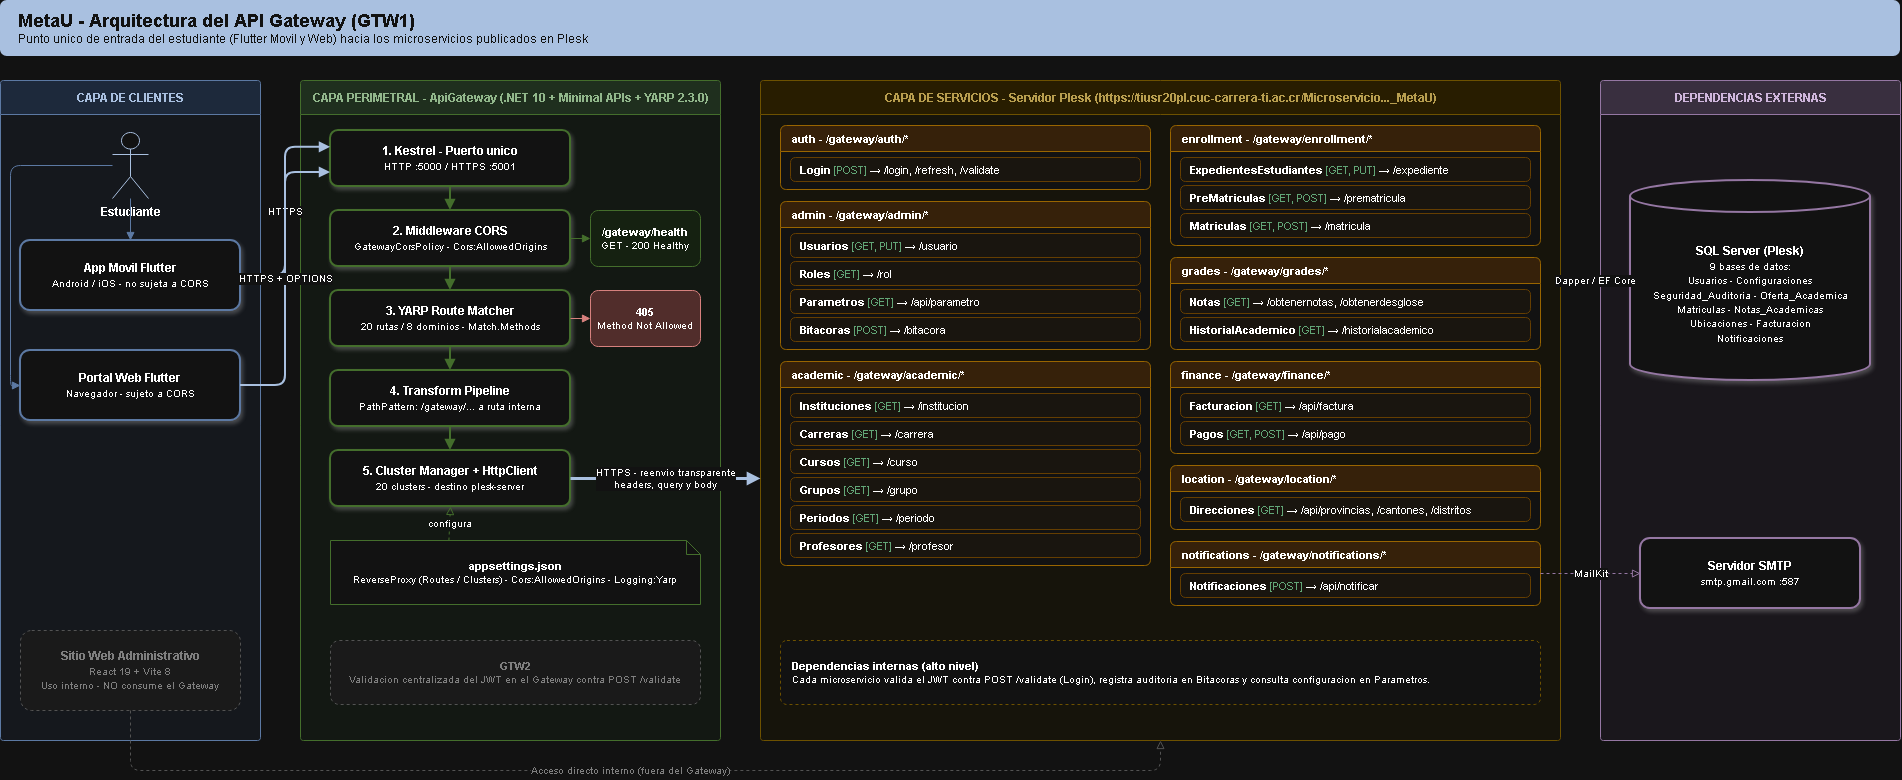
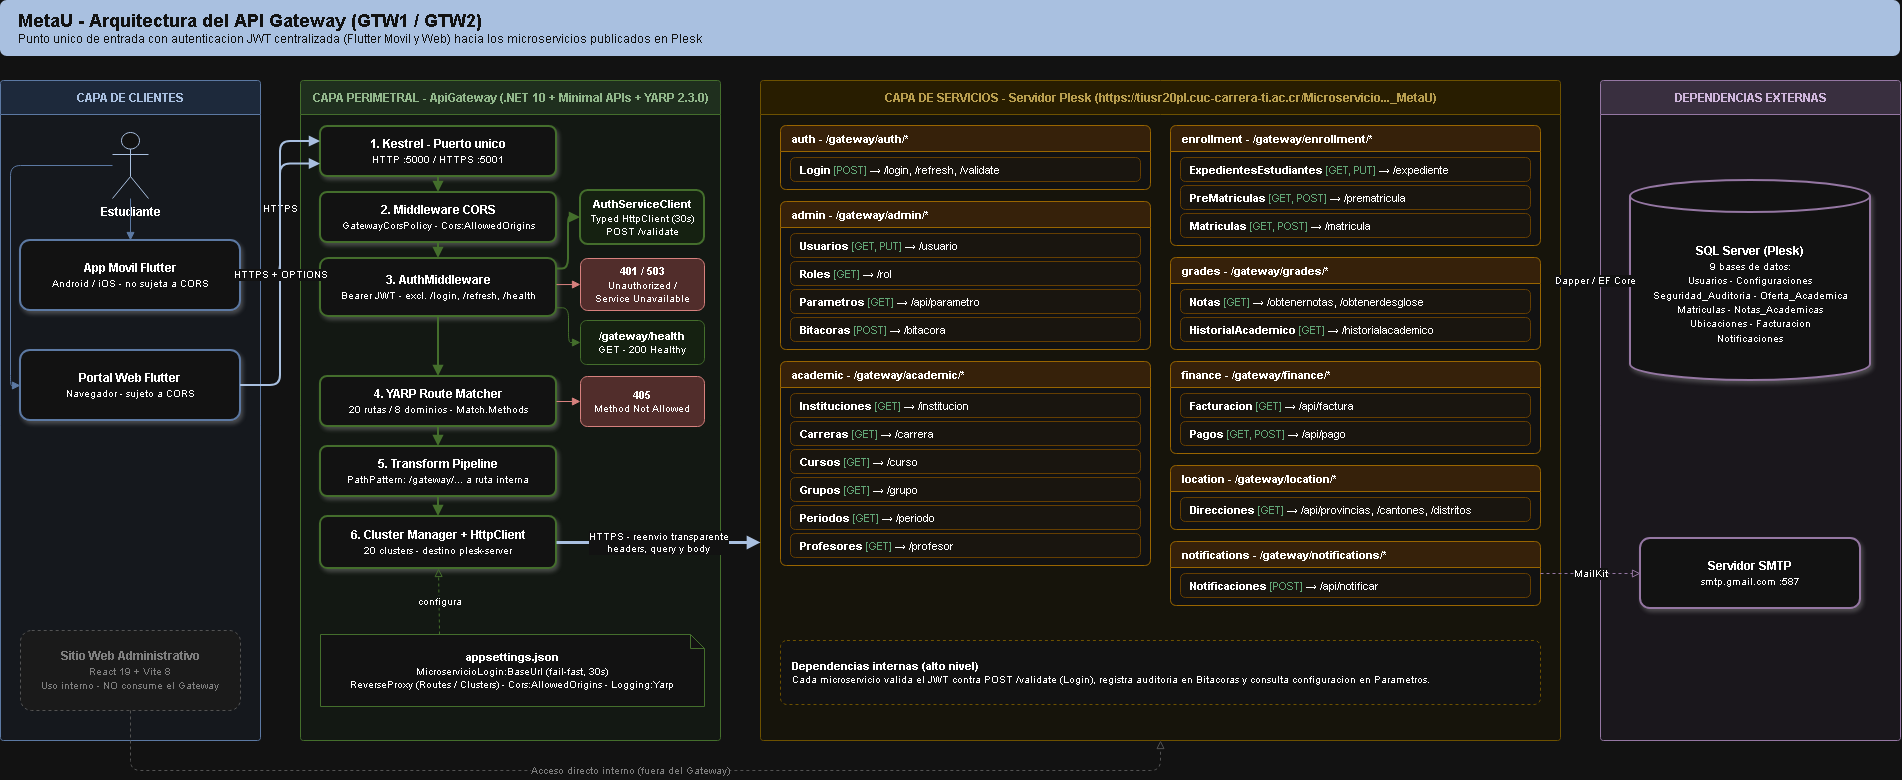
docs: actualizar READMEs y diagrama de arquitectura para GTW2
- Actualizado Backend/ApiGateway/README.md con flujo GTW2, orden del pipeline, rutas publicas/protegidas, configuracion y codigos 401/503
- Actualizado Backend/README.md con la responsabilidad de autenticacion JWT en ApiGateway
- Actualizados Diagrama_Arquitectura_APIGateway.drawio y .png incorporando AuthMiddleware, AuthServiceClient y validacion contra POST /validate

diff --git a/Backend/ApiGateway/README.md b/Backend/ApiGateway/README.md
@@ -1,4 +1,4 @@
-# API Gateway - GTW1
+# API Gateway - GTW1 / GTW2
 
 Punto único de entrada (*Reverse Proxy*) perimetral del sistema MetaU, construido sobre **.NET 10**, **ASP.NET Core (Minimal APIs)** y **YARP (Yet Another Reverse Proxy)**.
 
@@ -10,6 +10,10 @@ Punto único de entrada (*Reverse Proxy*) perimetral del sistema MetaU, construi
 
 El Gateway centraliza todas las comunicaciones entrantes destinadas al estudiante desde la Aplicación Móvil y el Portal Web desarrollados en Flutter. Proporciona un puerto y punto de entrada perimetral unificado, resolviendo el enrutamiento y la reescritura hacia los 20 microservicios en Plesk requeridos por el flujo del estudiante, filtrando verbos HTTP no autorizados y gestionando las políticas perimetrales de CORS.
 
+**GTW2** — Autenticación y autorización centralizada en el Gateway.
+
+El Gateway intercepta las peticiones entrantes antes de llegar al proxy inverso, valida el token JWT (`access_token`) contra la operación `POST /validate` de `MicroservicioLogin` mediante un cliente HTTP tipado y rechaza con `401 Unauthorized` cualquier petición protegida sin token válido. Quedan excluidas únicamente las rutas `/gateway/auth/login`, `/gateway/auth/refresh`, `/gateway/health` y las solicitudes preflight `OPTIONS`.
+
 > **Alcance arquitectónico:** El Sitio Web Administrativo (React 19) no consume este Gateway, ya que opera de forma interna y directa contra los microservicios administrativos.
 
 ---
@@ -20,6 +24,8 @@ El Gateway centraliza todas las comunicaciones entrantes destinadas al estudiant
 - ASP.NET Core Minimal APIs
 - YARP (Yet Another Reverse Proxy) v2.3.0 de Microsoft
 - Middleware de CORS (Cross-Origin Resource Sharing) configurable por entorno
+- Middleware personalizado de autenticación JWT (`AuthMiddleware`)
+- Cliente HTTP tipado con `IHttpClientFactory` (`AuthServiceClient`)
 - Transformaciones de ruta (*Path Pattern Transforms*) nativas
 - Kestrel Web Server (HTTP/1.1 y HTTP/2)
 
@@ -96,12 +102,40 @@ El Gateway segmenta los 20 microservicios consumidos por la aplicación en 8 dom
 
 ## Políticas de CORS (Cross-Origin Resource Sharing)
 
-El Gateway implementa la política perimetral `GatewayCorsPolicy` posicionada de forma estricta antes del proxy inverso en el pipeline de ASP.NET Core:
+El Gateway implementa la política perimetral `GatewayCorsPolicy` posicionada de forma estricta antes del middleware de autenticación y del proxy inverso en el pipeline de ASP.NET Core:
 
 1. **Orígenes dinámicos:** Los orígenes permitidos se desacoplan del código compilado y se configuran en `appsettings.json` mediante la clave `Cors:AllowedOrigins` (por ejemplo, `https://tiusr20pl.cuc-carrera-ti.ac.cr`).
 2. **Cabeceras permitidas:** `AllowAnyHeader()` para permitir cabeceras estándar y personalizadas (`Authorization`, `Content-Type`, `X-Usuario-Id`, `UsuarioGUID`, etc.).
 3. **Métodos permitidos:** `AllowAnyMethod()` para resolver con éxito el preflight (`OPTIONS` -> `204 No Content`), delegando la restricción granular de verbos de negocio al Route Matcher de YARP.
 4. **Comportamiento móvil vs web:** Las aplicaciones nativas (Flutter en Android/iOS) operan a nivel de socket del sistema operativo y no están restringidas por CORS. La política protege a los clientes ejecutados en navegador (específicamente la versión Flutter Web del estudiante).
+
+---
+
+## Autenticación y autorización centralizada (GTW2)
+
+La seguridad perimetral se implementa mediante un middleware personalizado y un cliente HTTP tipado, manteniendo intactas las 20 definiciones de rutas de YARP:
+
+- `Middleware/AuthMiddleware.cs`: Intercepta cada petición HTTP después de CORS y antes de los endpoints propios y de YARP.
+- `Clients/IAuthServiceClient.cs` y `Clients/AuthServiceClient.cs`: Envía `POST validate` hacia `MicroservicioLogin` con la cabecera `Authorization: Bearer <token>` y retorna un booleano indicando la validez del token.
+
+### Orden del pipeline en `Program.cs`
+
+1. `app.UseCors(CorsPolicyName)` — Garantiza que incluso las respuestas `401` y `503` del Gateway incluyan cabeceras CORS para clientes web.
+2. `app.UseMiddleware<AuthMiddleware>()` — Ejecuta la verificación de token antes de exponer rutas locales o reenviar tráfico.
+3. `app.MapApiGatewayEndpoints()` — Atiende `/gateway/health`.
+4. `app.MapReverseProxy()` — Enruta la petición validada al microservicio correspondiente en Plesk.
+
+### Rutas excluidas vs rutas protegidas
+
+| Tipo de acceso | Rutas / Solicitudes | Comportamiento |
+|---|---|---|
+| Público (excluido) | Solicitudes `OPTIONS`, `/gateway/auth/login`, `/gateway/auth/refresh`, `/gateway/health` | Avanzan directamente sin requerir token JWT |
+| Protegido | `/gateway/auth/validate` y las 19 rutas de negocio restantes | Exigen cabecera `Authorization: Bearer <token>` (comparación case-insensitive) validada contra `/validate` |
+
+### Manejo de errores de seguridad
+
+- **Token ausente, malformado, inválido o expirado (`401 Unauthorized`):** El Gateway responde inmediatamente con cabecera `WWW-Authenticate: Bearer` y cuerpo JSON `{"mensaje": "No autorizado."}` sin invocar al microservicio destino.
+- **Fallo de red, timeout o error 5xx en `MicroservicioLogin` (`503 Service Unavailable`):** Se registra el error en el log y se responde `{"mensaje": "Servicio de autenticacion no disponible temporalmente."}`.
 
 ---
 
@@ -119,6 +153,9 @@ Claves principales en `appsettings.json` / `appsettings.Development.json`:
     }
   },
   "AllowedHosts": "*",
+  "MicroservicioLogin": {
+    "BaseUrl": "https://tiusr20pl.cuc-carrera-ti.ac.cr/MicroservicioLogin_MetaU/"
+  },
   "Cors": {
     "AllowedOrigins": [
       "https://tiusr20pl.cuc-carrera-ti.ac.cr"
@@ -131,6 +168,7 @@ Claves principales en `appsettings.json` / `appsettings.Development.json`:
 }
 ```
 
+- `MicroservicioLogin:BaseUrl` → URL base del servicio de autenticación usada por `AuthServiceClient`. Se valida al arranque (*fail-fast* con `InvalidOperationException` si falta o no es una URI absoluta válida), se normaliza con `/` final y se configura con un `Timeout` de 30 segundos.
 - `Cors:AllowedOrigins` → Lista de dominios web autorizados para interactuar con la API.
 - `ReverseProxy:Routes` → Definición de rutas públicas, verbos admitidos y reglas de transformación.
 - `ReverseProxy:Clusters` → Destinos físicos correspondientes a cada microservicio publicado en Plesk.
@@ -157,10 +195,11 @@ Para ejecutarlo dentro de la solución completa, está incorporado en `Microserv
 | 200 OK | Solicitud procesada y respondida exitosamente por el microservicio o por `/gateway/health` |
 | 201 Created | Creación de recursos exitosa (ej. login, prematricula, pago) |
 | 204 No Content | Petición preflight `OPTIONS` resuelta por CORS o eliminaciones exitosas |
-| 401 Unauthorized | Token JWT ausente, expirado o inválido transmitido al microservicio |
+| 401 Unauthorized | Token JWT ausente, malformado, inválido o expirado; rechazado de forma centralizada por `AuthMiddleware` (incluye cabecera `WWW-Authenticate: Bearer`) |
 | 404 Not Found | Ruta inexistente no capturada por ninguna regla de enrutamiento |
 | 405 Method Not Allowed | Verbo HTTP no autorizado por la definición de la ruta en YARP (bloqueo en el perímetro) |
 | 502 Bad Gateway | El microservicio interno de destino en Plesk está apagado, inaccesible o la URL configurada en el Cluster es errónea |
+| 503 Service Unavailable | Error de red, timeout o fallo `5xx` al intentar validar el token contra `MicroservicioLogin` |
 
 ---
 
@@ -172,4 +211,4 @@ El diagrama de casos de uso del API Gateway se encuentra disponible en:
 
 ---
 
-*Documentación estandarizada del componente ApiGateway (GTW1).*
+*Documentación estandarizada del componente ApiGateway (GTW1 y GTW2).*

diff --git a/Backend/README.md b/Backend/README.md
@@ -26,7 +26,7 @@ dotnet build Microservicios.slnx
 
 | Carpeta | Endpoint base | Descripción |
 |---------|---------------|-------------|
-| [ApiGateway/](ApiGateway/) | `/gateway` | Punto único de entrada (Reverse Proxy YARP), enrutamiento perimetral y CORS |
+| [ApiGateway/](ApiGateway/) | `/gateway` | Punto único de entrada (Reverse Proxy YARP), enrutamiento perimetral, CORS y autenticación centralizada (JWT) |
 | [MicroservicioLogin/](MicroservicioLogin/) | `/login` | Autenticación, generación y validación de JWT, refresh tokens |
 | [MicroservicioUsuarios/](MicroservicioUsuarios/) | `/usuario` | Administración de usuarios del sistema |
 | [MicroservicioRoles/](MicroservicioRoles/) | `/rol` | Roles y permisos |
